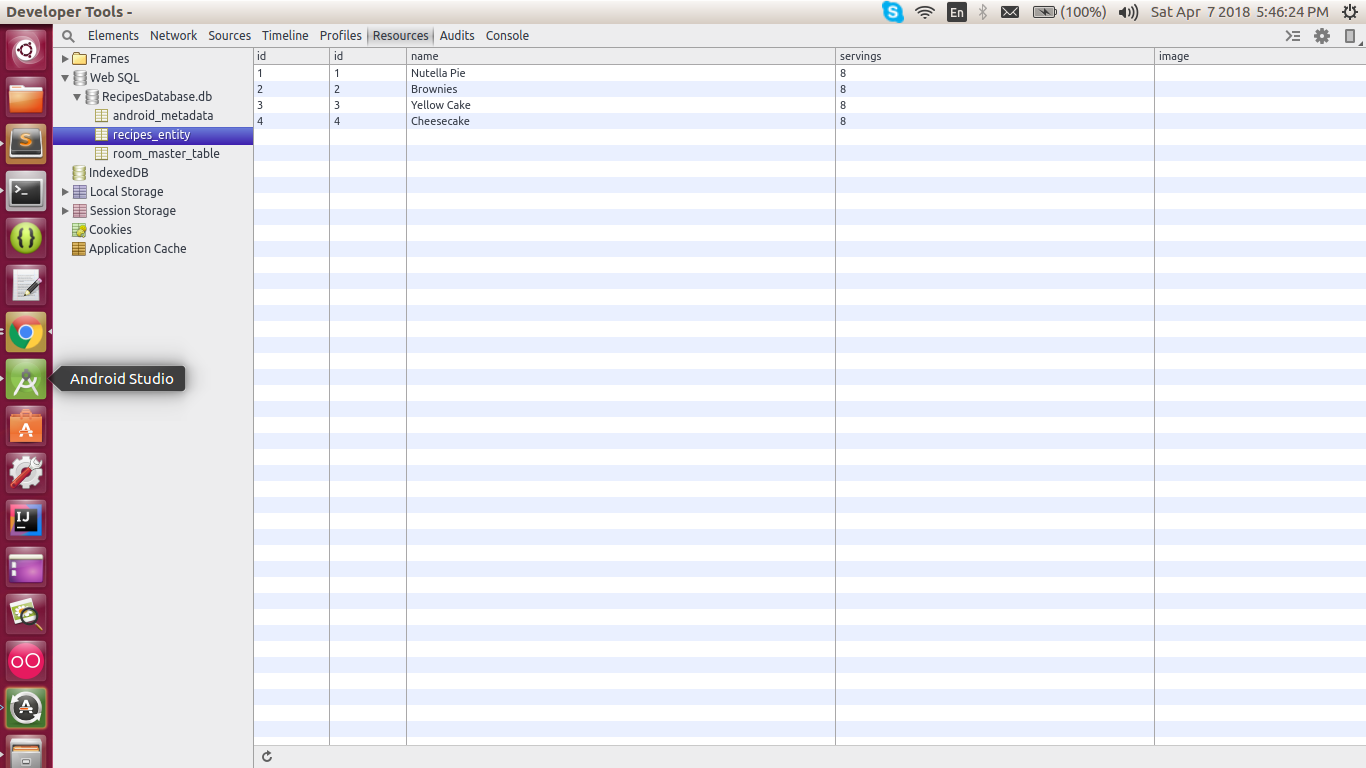
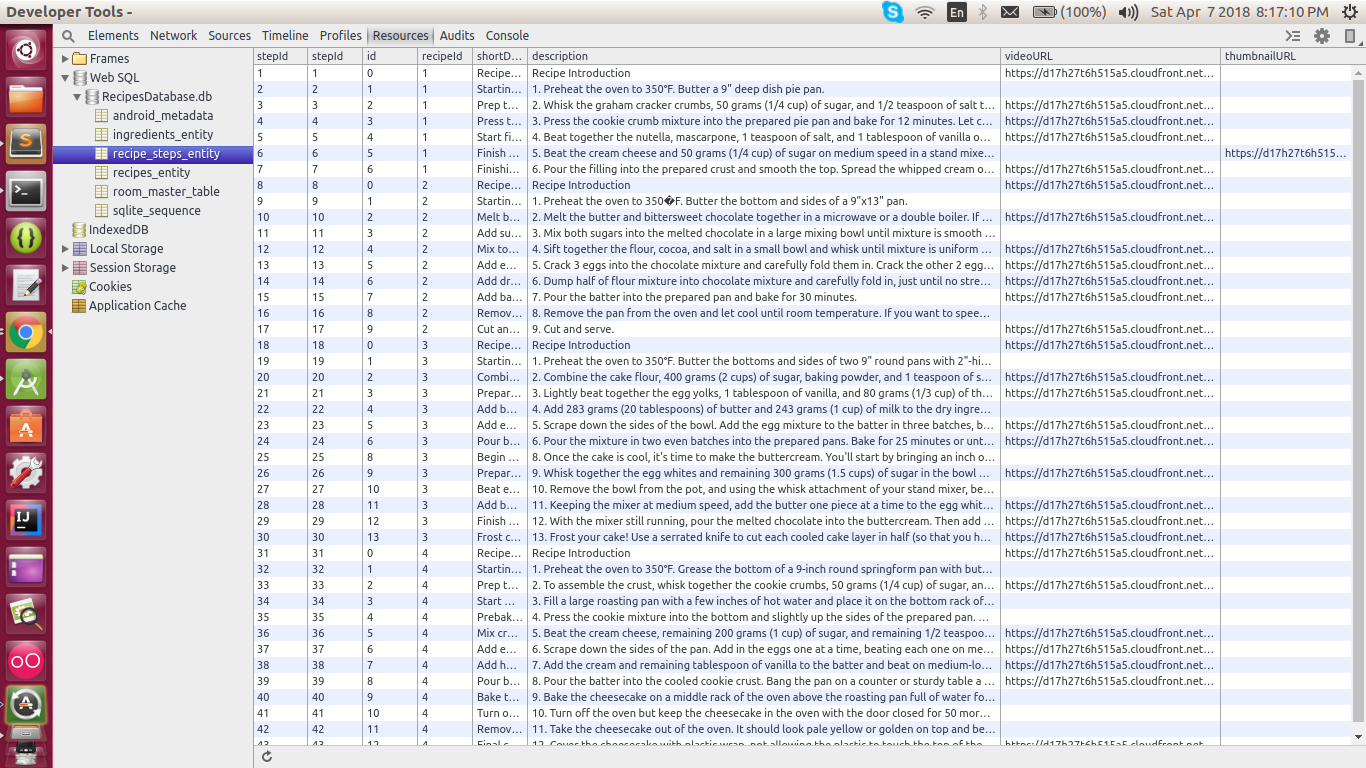
Bug fixes and completed basic room sample with kotlin

diff --git a/app/src/main/java/com/rramprasad/roomsample/MainActivity.kt b/app/src/main/java/com/rramprasad/roomsample/MainActivity.kt
@@ -1,17 +1,12 @@
 package com.rramprasad.roomsample
 
-import android.arch.persistence.room.Room
-import android.arch.persistence.room.RoomDatabase
 import android.support.v7.app.AppCompatActivity
 import android.os.Bundle
 import android.os.Handler
 import android.support.v7.widget.LinearLayoutManager
 import android.support.v7.widget.RecyclerView
 import com.google.gson.Gson
-import com.rramprasad.roomsample.data.Recipe
-import com.rramprasad.roomsample.data.RecipeDatabase
-import com.rramprasad.roomsample.data.RecipeEntity
-import com.rramprasad.roomsample.data.RecipeResponse
+import com.rramprasad.roomsample.data.*
 
 class MainActivity : AppCompatActivity() {
 
@@ -22,8 +17,6 @@ class MainActivity : AppCompatActivity() {
     private lateinit var mLinearLayoutManager: LinearLayoutManager
 
     private lateinit var mRecipesArrayList: ArrayList<RecipeEntity>
-
-
 
     private lateinit var mDBWorkerThread: DBWorkerThread
 
@@ -608,8 +601,20 @@ class MainActivity : AppCompatActivity() {
         val recipesList: List<Recipe> = Gson().fromJson(jsonString, Array<Recipe>::class.java).toList()
 
         for (recipe: Recipe in recipesList) {
-            val recipeEntity = RecipeEntity(recipe.id, recipe.name, recipe.servings, recipe.imageURL)
-            mDatabase?.recipeDao()?.insertRecipe(recipeEntity)
+
+            val recipeEntity = RecipeEntity(recipe.id, recipe.name,recipe.servings, recipe.imageURL)
+
+            val recipeId : Long? = mDatabase?.recipeDao()?.insertRecipe(recipeEntity)
+
+            for (ingredient in recipe.ingredients) {
+                val ingredientEntity = IngredientEntity(null,recipeId,ingredient.quantity, ingredient.measure, ingredient.ingredient)
+                mDatabase?.recipeDao()?.insertIngredient(ingredientEntity)
+            }
+
+            for (step in recipe.steps) {
+                val recipeStepEntity = RecipeStepEntity(null,step.stepId,recipeId,step.shortDescription, step.description, step.videoURL, step.thumbnailURL)
+                mDatabase?.recipeDao()?.insertRecipeStep(recipeStepEntity)
+            }
         }
     }
 }

diff --git a/app/src/main/java/com/rramprasad/roomsample/data/RecipeDao.kt b/app/src/main/java/com/rramprasad/roomsample/data/RecipeDao.kt
@@ -5,11 +5,12 @@ import android.arch.persistence.room.*
 @Dao
 interface RecipeDao {
 
+    //Recipes
     @Query("SELECT * from recipes_entity")
     fun getAllRecipes() : List<RecipeEntity>
 
     @Insert(onConflict = OnConflictStrategy.REPLACE)
-    fun insertRecipe(recipe: RecipeEntity)
+    fun insertRecipe(recipe: RecipeEntity) : Long
 
     @Insert(onConflict = OnConflictStrategy.REPLACE)
     fun insertAllRecipes(recipes: List<RecipeEntity>)
@@ -20,5 +21,38 @@ interface RecipeDao {
     @Delete
     fun deleteRecipe(recipe: RecipeEntity)
 
+
+    //Recipe Steps
+    @Query("SELECT * from recipe_steps_entity")
+    fun getAllRecipeSteps() : List<RecipeStepEntity>
+
+    @Insert(onConflict = OnConflictStrategy.REPLACE)
+    fun insertRecipeStep(recipeStep: RecipeStepEntity)
+
+    @Insert(onConflict = OnConflictStrategy.REPLACE)
+    fun insertAllRecipesSteps(recipeSteps: List<RecipeStepEntity>)
+
+    @Update
+    fun updateRecipeStep(recipeStep: RecipeStepEntity)
+
+    @Delete
+    fun deleteRecipeStep(recipeStep: RecipeStepEntity)
+
+
+    //Ingredients
+    @Query("SELECT * from ingredients_entity")
+    fun getAllIngredients() : List<IngredientEntity>
+
+    @Insert(onConflict = OnConflictStrategy.REPLACE)
+    fun insertIngredient(ingredient: IngredientEntity)
+
+    @Insert(onConflict = OnConflictStrategy.REPLACE)
+    fun insertAllIngredients(ingredients: List<IngredientEntity>)
+
+    @Update
+    fun updateIngredient(ingredient: IngredientEntity)
+
+    @Delete
+    fun deleteIngredient(ingredient: IngredientEntity)
 }
 

diff --git a/app/src/main/java/com/rramprasad/roomsample/data/RecipeResponse.kt b/app/src/main/java/com/rramprasad/roomsample/data/RecipeResponse.kt
@@ -17,16 +17,45 @@ data class Recipe(
         @SerializedName("name")
         var name: String,
 
-
-        /*@SerializedName("ingredients")
+        @SerializedName("ingredients")
         var ingredients: List<Ingredient>,
 
         @SerializedName("steps")
-        var steps: List<RecipeStep>,*/
+        var steps: List<RecipeStep>,
 
         @SerializedName("servings")
         var servings: String,
 
         @SerializedName("image")
         var imageURL: String
+)
+
+data class RecipeStep(
+
+        @SerializedName("id")
+        var stepId: Int,
+
+        @SerializedName("shortDescription")
+        var shortDescription: String,
+
+        @SerializedName("description")
+        var description: String,
+
+        @SerializedName("videoURL")
+        var videoURL: String,
+
+        @SerializedName("thumbnailURL")
+        var thumbnailURL: String
+)
+
+data class Ingredient(
+
+        @SerializedName("quantity")
+        var quantity: Double,
+
+        @SerializedName("measure")
+        var measure: String,
+
+        @SerializedName("ingredient")
+        var ingredient: String
 )

diff --git a/app/src/main/java/com/rramprasad/roomsample/data/RecipeEntity.kt b/app/src/main/java/com/rramprasad/roomsample/data/RecipeEntity.kt
@@ -14,31 +14,11 @@ data class RecipeEntity(
         @ColumnInfo(name = "name")
         var name: String,
 
-        /*@Embedded
-        var ingredients: List<Ingredient>?,
-
-        @Embedded
-        var steps: List<RecipeStep>?,*/
-
         @ColumnInfo(name = "servings")
         var servings: String,
 
         @ColumnInfo(name = "image")
         var imageURL: String
-)/*{
-        constructor() : this(0,"",null,null,"","")
+){
+        constructor() : this(0,"","","")
 }
-
-data class Ingredient(
-        val quantity : Int,
-        val measure : String,
-        val ingredient : String
-)
-
-data class RecipeStep(
-        val stepId : Int,
-        val shortDescription : String,
-        val description : String,
-        val videoURL : String,
-        val thumbnailURL : String
-)*/

diff --git a/app/src/main/java/com/rramprasad/roomsample/data/RecipeStepEntity.kt b/app/src/main/java/com/rramprasad/roomsample/data/RecipeStepEntity.kt
@@ -1,0 +1,20 @@
+package com.rramprasad.roomsample.data
+
+import android.arch.persistence.room.Entity
+import android.arch.persistence.room.PrimaryKey
+
+@Entity(tableName = "recipe_steps_entity")
+data class RecipeStepEntity(
+
+        @PrimaryKey(autoGenerate = true)
+        var stepId : Int? = null,
+
+        var id: Int,
+        var recipeId: Long?,
+        var shortDescription: String,
+        var description: String,
+        var videoURL: String,
+        var thumbnailURL: String
+){
+    constructor() : this(null,0,0,"","","","")
+}

diff --git a/app/src/main/java/com/rramprasad/roomsample/data/IngredientEntity.kt b/app/src/main/java/com/rramprasad/roomsample/data/IngredientEntity.kt
@@ -1,0 +1,18 @@
+package com.rramprasad.roomsample.data
+
+import android.arch.persistence.room.Entity
+import android.arch.persistence.room.PrimaryKey
+
+@Entity(tableName = "ingredients_entity")
+data class IngredientEntity(
+
+        @PrimaryKey(autoGenerate = true)
+        var ingredientId: Int? = null,
+
+        var recipeId: Long?,
+        var quantity: Double,
+        var measure: String,
+        var ingredient: String
+){
+    constructor() : this(null,0,0.0,"","")
+}

diff --git a/app/src/main/java/com/rramprasad/roomsample/data/RecipeDatabase.kt b/app/src/main/java/com/rramprasad/roomsample/data/RecipeDatabase.kt
@@ -5,7 +5,7 @@ import android.arch.persistence.room.Room
 import android.arch.persistence.room.RoomDatabase
 import android.content.Context
 
-@Database(entities = [(RecipeEntity::class)],version = 1,exportSchema = false)
+@Database(entities = [(RecipeEntity::class),(RecipeStepEntity::class),(IngredientEntity::class)],version = 1,exportSchema = false)
 abstract class RecipeDatabase : RoomDatabase(){
 
 
